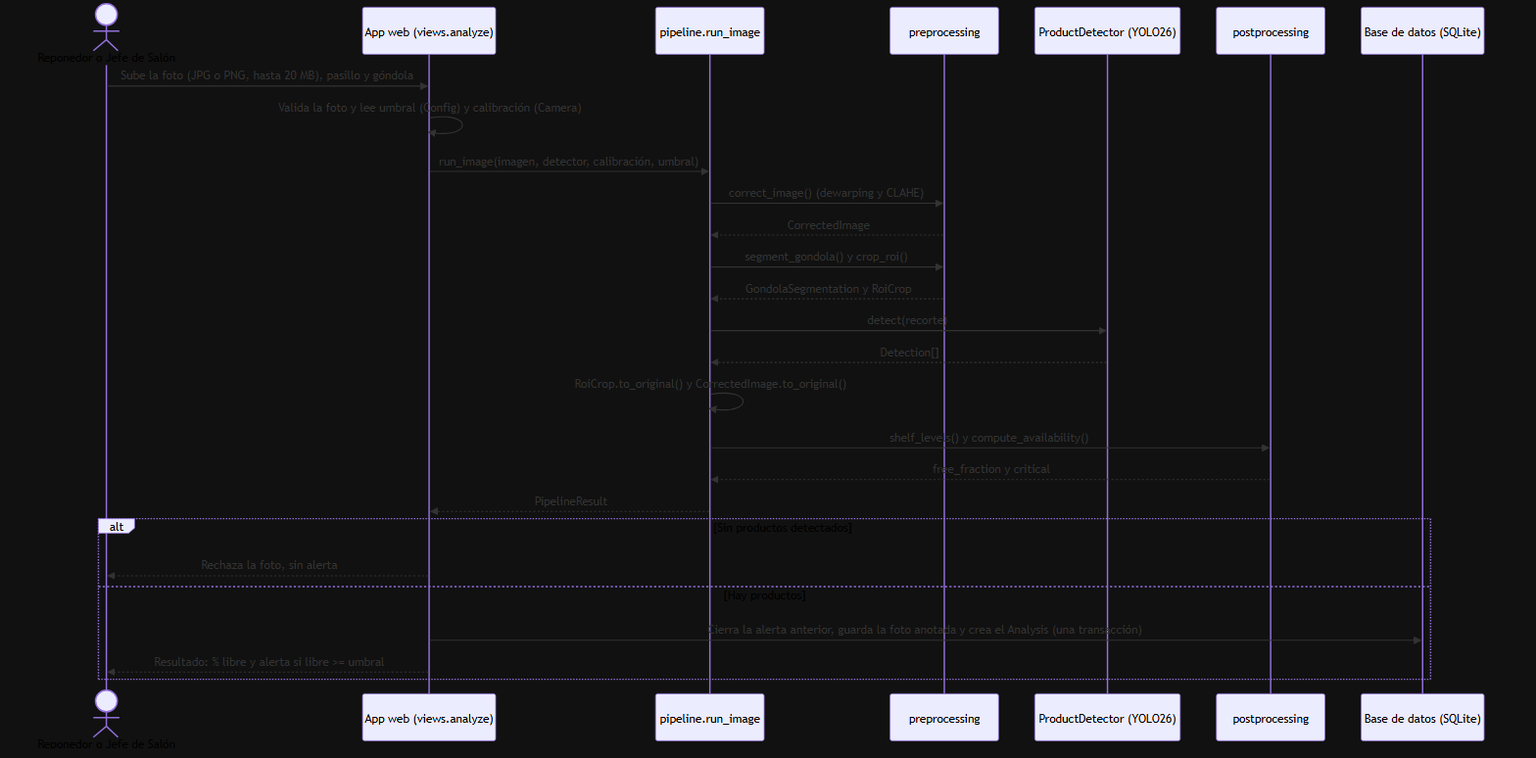
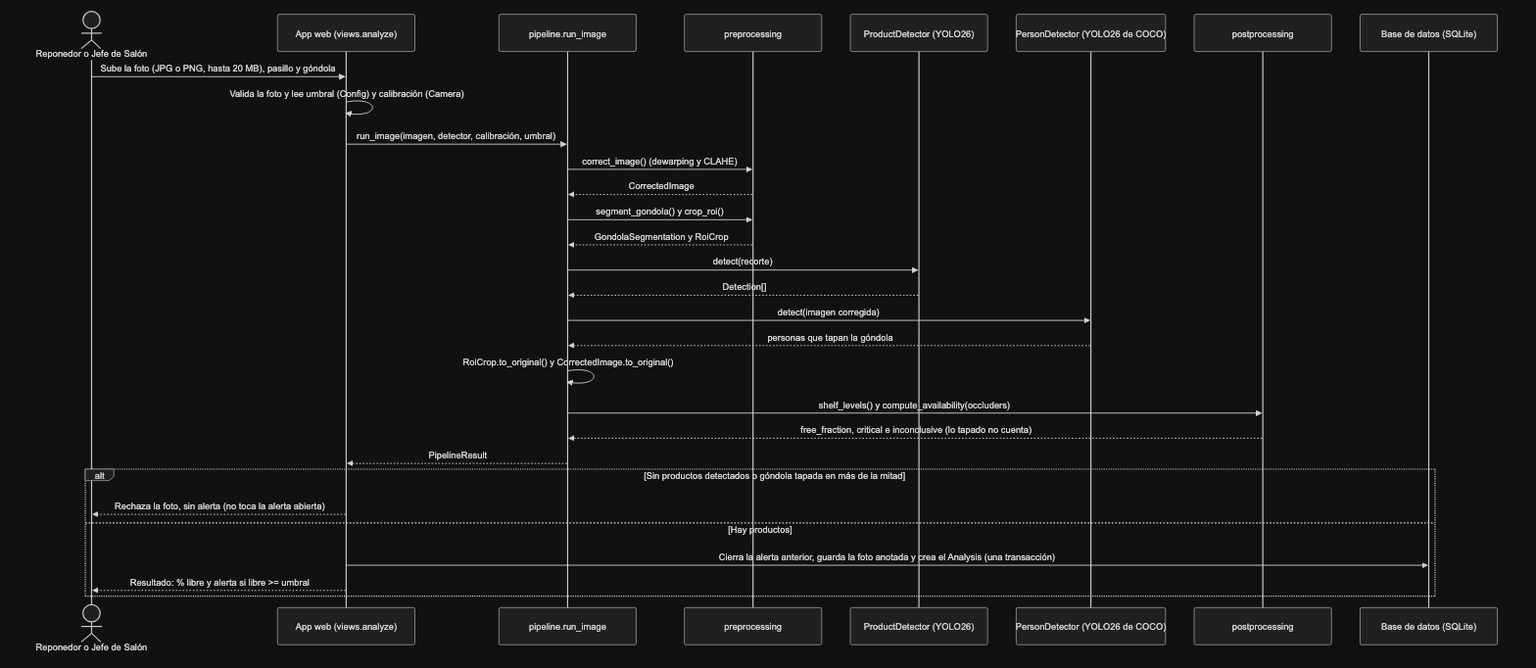
docs: revisa documentos, backlog y diagramas contra el repositorio (#90)
PROGRESS.md, el Product Backlog, el Sprint Backlog y la Carta Gantt
coinciden y no hay enlaces rotos. Se corrige lo que quedó desactualizado
tras #77, #80 y #84: requisitos no funcionales (RNF08 pasa a Cumple por
la instalación probada del #60), innovación y Definition of Done (303
pruebas), estado operativo del README, PRODUCT.md y la auditoría (CITT
descartado), la especificación técnica (oclusión del #77) y los
diagramas UML de clases, secuencia y componentes (detector de personas
y pesos dentro de la imagen; PNG regenerados con el tema oscuro).
Quedan anotados para un ítem aparte los errores de Lista de C. U. y
Lista de Requerimientos.

diff --git a/Fase 2/Evidencias Proyecto/Evidencias de documentación/Diseño/Requisitos No Funcionales.md b/Fase 2/Evidencias Proyecto/Evidencias de documentación/Diseño/Requisitos No Funcionales.md
@@ -1,16 +1,16 @@
 # Requisitos no funcionales
 
-Los seis requisitos RNF01 a RNF06 son los de [Lista de Requerimientos.xlsx](Lista%20de%20Requerimientos.xlsx) (Fase 1). Aquí se les agrega un **criterio medible**, **cómo se verifica** y su **estado al 2026-11-15**. Los RNF07 a RNF10 se agregaron en la Fase 2 por decisiones técnicas y del cliente. Detalle de pruebas: [docs/test-plan.md](../../../../docs/test-plan.md).
+Los seis requisitos RNF01 a RNF06 son los de [Lista de Requerimientos.xlsx](Lista%20de%20Requerimientos.xlsx) (Fase 1). Aquí se les agrega un **criterio medible**, **cómo se verifica** y su **estado al 2026-11-16**. Los RNF07 a RNF10 se agregaron en la Fase 2 por decisiones técnicas y del cliente. Detalle de pruebas: [docs/test-plan.md](../../../../docs/test-plan.md).
 
 | ID | Categoría | Criterio medible | Cómo se verifica | Estado |
 | --- | --- | --- | --- | --- |
 | RNF01 | Rendimiento / latencia | Análisis de una foto en 2 a 5 s (RF01) | Tiempo por etapa de `scripts/run_pipeline.py` (`times` en el JSON) | **Cumple en CPU**: mediana 0,51 s por foto (45 fotos de Kaggle de 5616 x 3744, i5-13400F, 4 hilos, 2026-10-20). El tope de 1,5 a 2,0 GB de VRAM no se midió; falta el hardware final |
-| RNF02 | Robustez y ruido visual | El detector mantiene mAP50 >= 0,70 en fotos fuera de SKU-110K, en vistas giradas y con ruido de cámara de sala | DET-06 a DET-10 de `docs/test-plan.md`; ítems #55, #76, #78 y #79 | **Parcial**: mAP50 0,854 de frente y 0,818 en la vista girada y35 (`yolo26s-finetune`, DET-07); con ruido simulado de cámara de sala, 0,780 a 0,801 (DET-08 y DET-10). Por tipo de ruido (DET-09 y DET-10) cumple en todos salvo el desenfoque de movimiento fuerte (31 px): 0,577 con `yolo26s-finetune` y 0,647 con `yolo26s-finetune-ruido-v3`. Pendientes: las puertas de vidrio (#46) y la falsa alerta cuando una persona tapa la góndola (#77) |
+| RNF02 | Robustez y ruido visual | El detector mantiene mAP50 >= 0,70 en fotos fuera de SKU-110K, en vistas giradas y con ruido de cámara de sala | DET-06 a DET-10 de `docs/test-plan.md`; ítems #55, #76, #78 y #79 | **Parcial**: mAP50 0,854 de frente y 0,818 en la vista girada y35 (`yolo26s-finetune`, DET-07); con ruido simulado de cámara de sala, 0,780 a 0,801 (DET-08 y DET-10). Por tipo de ruido (DET-09 y DET-10) cumple en todos salvo el desenfoque de movimiento fuerte (31 px): 0,577 con `yolo26s-finetune` y 0,647 con `yolo26s-finetune-ruido-v3`. El desenfoque de 31 px se acepta como límite: reentrenar con más desenfoque no mejoró (0,652, DET-11, #82). La falsa alerta cuando una persona tapa la góndola se resolvió en el pipeline (#77: mide solo el frente visible). Pendiente: las puertas de vidrio (#46) |
 | RNF03 | Arquitectura modular | Etapas `preprocessing -> models -> postprocessing -> reporting` en paquetes `.py` separados, sin importar detalles internos de otra etapa | Revisión de código y [Diagrama de Arquitectura](Diagrama%20de%20arquitectura/Diagrama%20de%20Arquitectura.png); `tests/` por etapa | **Cumple** (sin notebooks en `src/`) |
 | RNF04 | Seguridad de autenticación | Contraseñas con bcrypt; sesión que expira por inactividad; bloqueo temporal tras intentos fallidos | `web/settings.py` (`BCryptSHA256PasswordHasher`, sesión de 2 horas que se renueva con cada petición), bloqueo de 15 minutos (#51) y sus pruebas en `tests/` | **Cumple**. Se usa sesión de Django, no JWT (decisión de la app web, README) |
-| RNF05 | Privacidad y seguridad | El sistema no guarda rostros ni datos personales de clientes; las fotos se borran pasado un plazo | `manage.py borrar_fotos --dias 30` (borra la foto y conserva el resultado, #45) | **Cumple** como mecanismo; falta programar su ejecución periódica en el servidor |
+| RNF05 | Privacidad y seguridad | El sistema no guarda rostros ni datos personales de clientes; las fotos se borran pasado un plazo | `manage.py borrar_fotos --dias 30` (borra la foto y conserva el resultado, #45) | **Cumple** como mecanismo; su ejecución diaria se programa al instalar (cron o Programador de tareas, sección 8.4 del Instructivo del plan de instalación) |
 | RNF06 | Disponibilidad y usabilidad web | Navegación en menos de 2 s; Chrome, Edge, Firefox y Safari; uso en celular | Revisión manual con los mockups y el [diseño](../../../../DESIGN.md); sin medición automática | **Parcial**: sin medición de tiempos de respuesta |
 | RNF07 | Seguridad de la aplicación | Debug apagado por defecto, HTTPS exigido, contenedor sin privilegios de root, dependencias sin vulnerabilidades conocidas | [docs/auditoria-seguridad.md](../../../../docs/auditoria-seguridad.md); `Dockerfile` (usuario 10001); `requirements.txt` (Pillow 13, certifi) | **Cumple** al 2026-10-22 (#50, #57); `pip-audit` en el CI pendiente |
-| RNF08 | Reproducibilidad y despliegue | Instalación con `docker compose up` o `docker run`; pruebas sin datos, pesos ni GPU | `Dockerfile`, `docker-compose.yml`, job `docker` del CI; `pytest tests/` (276 pruebas) | **Parcial**: `docker-compose.yml` validado con `docker compose config`, pero `up` sin probar (Docker Desktop no arranca en el PC de desarrollo); la instalación en el servidor del CITT (#39) se descartó el 2026-11-15 |
-| RNF09 | Licencias de datos | SKU-110K solo para entrenar y evaluar, nunca para generar imágenes ni demos ante terceros | `docs/datasets.md`, `src/datasets/sources.py` | **Cumple**; el modelo versionado (`weights/yolo26s-finetune.pt`) hereda la restricción de uso académico |
+| RNF08 | Reproducibilidad y despliegue | Instalación con `docker compose up` o `docker run`; pruebas sin datos, pesos ni GPU | `Dockerfile`, `docker-compose.yml`, job `docker` del CI; `pytest tests/` (303 pruebas); Instructivo del plan de instalación | **Cumple**: `docker compose up --build` probado completo el 2026-11-15 siguiendo el Instructivo (#60): imagen de 2,6 GB con los pesos incluidos, análisis, reportes y datos que se conservan al reiniciar. La instalación en el servidor del CITT (#39) se descartó el 2026-11-15 |
+| RNF09 | Licencias de datos | SKU-110K solo para entrenar y evaluar, nunca para generar imágenes ni demos ante terceros | `docs/datasets.md`, `src/datasets/sources.py` | **Cumple**; el modelo versionado (`weights/yolo26s-finetune-ruido-v3.pt`) hereda la restricción de uso académico. El de personas (`weights/yolo26n.pt`) es de Ultralytics, con licencia AGPL-3.0 |
 | RNF10 | Profundidad constante | Toda góndola se asume de 25 cm de profundidad; sin estimación de profundidad | `README.md`; `compute_availability` | **Cumple** |

diff --git a/README.md b/README.md
@@ -197,24 +197,28 @@ La especificación técnica (qué recibe y entrega cada etapa, parámetros con s
 
 ## 🚦 Estado Operativo y Pendiente
 
-Al 2026-10-20. El detalle por ítem y su dueño están en [PROGRESS.md](PROGRESS.md).
+Al 2026-11-16. El detalle por ítem y su dueño están en [PROGRESS.md](PROGRESS.md).
 
 | Módulo o requisito | Estado |
 | :--- | :--- |
 | Corrección de imagen (dewarping y CLAHE) | Operativo. El dewarping necesita calibración de lente: sin ella solo se aplica CLAHE |
 | Segmentación automática de góndola y repisas | Operativo. F1 de repisas 0,82 en SHARD; limitaciones conocidas en el ítem #17 |
-| Detector YOLO26 (`yolo26s`) | Operativo. mAP50-95 0,610 en el *test* de SKU-110K; 0,423 en las 45 fotos de Kaggle |
+| Detector YOLO26 (`yolo26s`) | Operativo con el modelo versionado `yolo26s-finetune-ruido-v3` (ajustado con fotos de Kaggle, vistas giradas y ruido de cámara de sala): mAP50 0,844 en las 12 fotos de prueba de Kaggle y 0,935 en el *test* de SKU-110K (DET-10). El modelo base: mAP50-95 0,610 en SKU-110K y 0,423 en las 45 fotos de Kaggle |
+| Persona que tapa la góndola (#77) | Operativo: mide solo el frente visible y rechaza la foto si más de la mitad queda tapada, sin falsa alerta |
 | Disponibilidad y alerta por góndola completa (RF02, RF03, RF04) | Operativo |
 | Ingesta y evaluación por lotes (RF01, RF06, CU07) | Operativo (`scripts/run_pipeline.py`); ~0,5 s por foto en lote, en CPU |
-| Aplicación web: login (CU00), usuarios y roles (CU06), análisis (CU01) y alertas (CU02) | Operativo |
+| Aplicación web: login (CU00), usuarios y roles (CU06), análisis (CU01) y alertas (CU02) | Operativo. CU06 sin correo: el Administrador ve el enlace para definir la contraseña y se lo entrega (#84) |
 | Reportes Excel, CSV y PDF (RF05, CU04, #7) | Operativo: página "Reportes" de la app web (`src/reporting/export.py`) |
 | Configuración de umbral y cámaras (CU05, #44) | Operativo: página "Configuración" de la app web |
 | Dashboard de disponibilidad (CU03, #43) | Operativo: página "Góndolas" de la app web |
+| Instalación con Docker Compose (#60, #74) | Operativa: probada completa el 2026-11-15 siguiendo el Instructivo del plan de instalación |
 | Instalación en el servidor del CITT (#39) | Descartada el 2026-11-15: ya no se necesita |
 
 **Limitaciones conocidas** (análisis completo en [docs/analisis-resultados.md](docs/analisis-resultados.md)):
 
-* El detector pierde productos fuera de su dominio (recall 0,644 en Kaggle contra 0,885 en SKU-110K), y cada producto perdido cuenta como hueco: produce falsas alertas (6 de 44 fotos). Siguiente paso: *fine-tuning* con fotos fuera de SKU-110K (#33, #32).
+* El detector base perdía productos fuera de su dominio (recall 0,644 en Kaggle contra 0,885 en SKU-110K), y cada producto perdido cuenta como hueco: producía falsas alertas (6 de 44 fotos). El *fine-tuning* con fotos de Kaggle lo mejoró (#33, #59, #80), pero se midió con solo 12 fotos de prueba: faltan fotos propias de tienda (#32).
+* Con desenfoque de movimiento fuerte (31 px) el detector baja a mAP50 0,647, bajo la meta de 0,70; reentrenar con más desenfoque no lo mejoró y se acepta como límite (DET-11, #82).
+* La oclusión solo se detecta cuando es una persona: un carro o una caja delante de la góndola todavía se mide como espacio libre (#77).
 * Las frutas y verduras a granel quedan fuera del alcance (no perecibles): recall 0,16.
 * Refrigeradores con puerta de vidrio: reflejos, desenfoque y marcos dan falsas alertas (#46).
 * La bodega de reserva sobre la góndola todavía se mide como parte de ella (#31).
@@ -461,14 +465,14 @@ python manage.py runserver          # http://localhost:8000
   analizadas con más de 30 días y conserva sus resultados (% libre,
   alerta, estado e historial), así que el dashboard y los reportes siguen
   igual; el detalle muestra "La foto se borró". Pensado para correr una
-  vez al día (cron o el programador del servidor del CITT). El plazo de 30
+  vez al día (cron o el Programador de tareas del servidor). El plazo de 30
   días es una propuesta a confirmar con Walmart (#24).
 - **Diseño**: el mundo visual es el "fleje de góndola": cada góndola se
   dibuja como sus repisas de frente, con los huecos rayados en su posición
   real (contexto de producto en [PRODUCT.md](PRODUCT.md) y sistema en
   [DESIGN.md](DESIGN.md)). Estilos, fuente (Archivo, OFL) e íconos
   (Phosphor, MIT) se sirven desde la app con whitenoise, sin CDN: la red
-  de la tienda o el servidor del CITT pueden no tener internet.
+  de la tienda o el servidor pueden no tener internet.
 
 Variables de entorno (todas opcionales en desarrollo):
 `SHELFVISION_WEIGHTS` (pesos de YOLO26; por defecto los de

diff --git a/docs/especificacion-tecnica.md b/docs/especificacion-tecnica.md
@@ -71,12 +71,18 @@ Una sola clase: `product`. Pesos en uso: `yolo26s-finetune-ruido-v3`, el
 fine-tuning con ruido de cámara de sala del 2026-11-15 (#79 de
 `PROGRESS.md`, DET-10), versionado en `weights/`.
 
+`PersonDetector(weights, device=None)` (`src/models/people.py`, #77) tiene
+la misma interfaz `detect()`: busca personas que tapan la góndola con
+`weights/yolo26n.pt` (YOLO26 de COCO, sin entrenar) y descarta las cajas
+bajas o más anchas que altas, porque las caras impresas en los envases
+salen como «persona».
+
 ### 3.3 Post-procesamiento (`src/postprocessing/`)
 
 | Función | Entrada | Salida |
 | --- | --- | --- |
 | `shelf_levels(products, segmentation_lines, roi, params=ShelfLevelParams())` | Cajas en la imagen corregida, rectas de la segmentación (`astuple(l)`) y la ROI | Niveles de arriba hacia abajo como cuadriláteros de lados verticales (sup. izq., sup. der., inf. der., inf. izq.). Sin repisas, la ROI es el único nivel |
-| `compute_availability(products, levels, params=AvailabilityParams())` | Cajas y niveles | `GondolaAvailability(shelves, free_fraction, critical)` |
+| `compute_availability(products, levels, params=AvailabilityParams(), occluders=())` | Cajas, niveles y lo que tapa la góndola | `GondolaAvailability(shelves, free_fraction, critical, occluded_fraction, inconclusive)` |
 
 - **`ShelfAvailability`** (una por nivel medido): `level_index`, `bbox`,
   `product_count`, `gaps` (tramos libres `(x_inicio, x_fin)`) y `polygon`.
@@ -86,6 +92,10 @@ fine-tuning con ruido de cámara de sala del 2026-11-15 (#79 de
   último nivel con productos y del producto más a la izquierda al más a la
   derecha. `free_fraction` es el ancho libre sobre el ancho total de todas
   las repisas, y `critical` es `free_fraction >= critical_free_fraction`.
+- **Oclusión (#77)**: lo que tapa una persona no cuenta como libre ni
+  como ocupado; se mide solo el frente visible. Si más del 50% queda
+  tapado (`max_occluded_fraction`), `inconclusive` es verdadero y no hay
+  alerta.
 - **Solo se informa la góndola completa**: el % libre y la alerta por
   repisa no son salida (#40).
 
@@ -93,7 +103,7 @@ fine-tuning con ruido de cámara de sala del 2026-11-15 (#79 de
 
 | Función | Entrada | Salida |
 | --- | --- | --- |
-| `run_image(image, detector, calibration=None, conf=None, critical_free_fraction=None)` | Foto BGR y un objeto con `detect()` | `PipelineResult` en coordenadas de la foto original |
+| `run_image(image, detector, calibration=None, conf=None, critical_free_fraction=None, occluder_detector=None)` | Foto BGR, un objeto con `detect()` y, opcional, el detector de personas | `PipelineResult` en coordenadas de la foto original |
 | `measure_boxes(image, boxes)` | Foto y cajas dadas (por ejemplo, una anotación hecha a mano) | `PipelineResult` medido con esas cajas, sin detector (referencia de CU07) |
 
 ### 3.5 Reportes (`src/reporting/`)
@@ -143,6 +153,9 @@ documentados campo por campo en su código.
 | `free_fraction` | float, 0 a 1 | Espacio libre de la góndola completa |
 | `critical` | bool | Alerta de quiebre de la góndola completa |
 | `segmentation_found` | bool | Falso si no se encontraron repisas (análisis global) |
+| `occluders` | `BBox[]` | Personas que tapan la góndola, en la foto original (#77) |
+| `occluded_fraction` | float, 0 a 1 | Parte del frente tapada |
+| `inconclusive` | bool | Verdadero si más de la mitad quedó tapada: no se informa alerta |
 | `times` | objeto | Segundos por etapa: `correction`, `segmentation`, `detection`, `availability` y `total` |
 
 Ejemplo (foto 026 de Kaggle, CPU): 94 productos, 6 repisas,
@@ -191,7 +204,9 @@ El modelo lógico, el modelo relacional y el diccionario de datos de la base
   (`BCryptSHA256PasswordHasher`).
 - **Análisis (CU01)**: foto JPG o PNG de hasta 20 MB y 50 megapíxeles, con pasillo y
   góndola. Se usan el umbral configurado y la calibración de la cámara de
-  esa góndola, si existe. Una foto sin productos detectados se rechaza.
+  esa góndola, si existe. Una foto sin productos detectados, o con más de
+  la mitad de la góndola tapada por una persona (#77), se rechaza sin
+  tocar la alerta abierta.
   El pasillo y la góndola se guardan sin espacios y en mayúsculas.
 - **Alertas (CU02)**: una góndola tiene a lo más una alerta abierta. Una
   foto nueva con quiebre reemplaza a la anterior y conserva su estado; una

diff --git a/Fase 2/Evidencias Proyecto/Evidencias de documentación/Diseño/Diagramas UML.md b/Fase 2/Evidencias Proyecto/Evidencias de documentación/Diseño/Diagramas UML.md
@@ -1,6 +1,6 @@
 # Diagramas UML
 
-Diagramas de **clases**, **secuencia** y **componentes** del sistema, hechos desde el código real (`src/`, `web/`) al 2026-11-14. Están en Mermaid: GitHub los dibuja en esta misma página. Imágenes (con su fuente en `Diagramas fuente (Mermaid)/`): [clases](Diagrama%20de%20Clases.png), [secuencia](Diagrama%20de%20Secuencia%20-%20Analisis%20de%20una%20foto.png) y [componentes](Diagrama%20de%20Componentes.png). Se generan con el comando de `Diagramas fuente (Mermaid)/LEEME.md`. Los diagramas de casos de uso están en [Diagrama General Casos de Uso.png](Diagrama%20General%20Casos%20de%20Uso.png) y en `Diagramas particulares por cada C. U._/`; la arquitectura, en [Diagrama de Arquitectura.png](Diagrama%20de%20arquitectura/Diagrama%20de%20Arquitectura.png).
+Diagramas de **clases**, **secuencia** y **componentes** del sistema, hechos desde el código real (`src/`, `web/`) al 2026-11-16. Están en Mermaid: GitHub los dibuja en esta misma página. Imágenes (con su fuente en `Diagramas fuente (Mermaid)/`): [clases](Diagrama%20de%20Clases.png), [secuencia](Diagrama%20de%20Secuencia%20-%20Analisis%20de%20una%20foto.png) y [componentes](Diagrama%20de%20Componentes.png). Se generan con el comando de `Diagramas fuente (Mermaid)/LEEME.md`. Los diagramas de casos de uso están en [Diagrama General Casos de Uso.png](Diagrama%20General%20Casos%20de%20Uso.png) y en `Diagramas particulares por cada C. U._/`; la arquitectura, en [Diagrama de Arquitectura.png](Diagrama%20de%20arquitectura/Diagrama%20de%20Arquitectura.png).
 
 ## 1. Diagrama de clases
 
@@ -39,6 +39,8 @@ classDiagram
         +ShelfAvailability[] shelves
         +float free_fraction
         +bool critical
+        +float occluded_fraction
+        +bool inconclusive
     }
     class PipelineResult {
         +tuple image_size
@@ -48,6 +50,8 @@ classDiagram
         +float free_fraction
         +bool critical
         +bool segmentation_found
+        +float occluded_fraction
+        +bool inconclusive
         +StageTimes times
         +to_dict() dict
     }
@@ -102,6 +106,7 @@ sequenceDiagram
     participant P as pipeline.run_image
     participant C as preprocessing
     participant D as ProductDetector (YOLO26)
+    participant O as PersonDetector (YOLO26 de COCO)
     participant A as postprocessing
     participant DB as Base de datos (SQLite)
 
@@ -114,12 +119,14 @@ sequenceDiagram
     C-->>P: GondolaSegmentation y RoiCrop
     P->>D: detect(recorte)
     D-->>P: Detection[]
+    P->>O: detect(imagen corregida)
+    O-->>P: personas que tapan la góndola
     P->>P: RoiCrop.to_original() y CorrectedImage.to_original()
-    P->>A: shelf_levels() y compute_availability()
-    A-->>P: free_fraction y critical
+    P->>A: shelf_levels() y compute_availability(occluders)
+    A-->>P: free_fraction, critical e inconclusive (lo tapado no cuenta)
     P-->>W: PipelineResult
-    alt Sin productos detectados
-        W-->>U: Rechaza la foto, sin alerta
+    alt Sin productos detectados o góndola tapada en más de la mitad
+        W-->>U: Rechaza la foto, sin alerta (no toca la alerta abierta)
     else Hay productos
         W->>DB: Cierra la alerta anterior, guarda la foto anotada y crea el Analysis (una transacción)
         W-->>U: Resultado: % libre y alerta si libre >= umbral
@@ -141,12 +148,13 @@ flowchart LR
         end
         subgraph PIPE["src/ (pipeline)"]
             PRE["preprocessing/ (OpenCV)"]
-            MDL["models/ (YOLO26 Ultralytics)"]
+            MDL["models/ (YOLO26 Ultralytics: productos y personas)"]
             POST["postprocessing/ (disponibilidad y alerta)"]
             REP["reporting/ (vista anotada, Excel, CSV y PDF)"]
             RUN[pipeline.py: run_image]
         end
-        VOL[("Volumen /data: SQLite, fotos y best.pt")]
+        W[("weights/: yolo26s-finetune-ruido-v3.pt y yolo26n.pt (en la imagen)")]
+        VOL[("Volumen /data: SQLite y fotos")]
     end
 
     NAV -->|HTTPS| VIS
@@ -154,7 +162,7 @@ flowchart LR
     VIS -->|run_image| RUN
     RUN --> PRE --> MDL --> POST --> REP
     MOD --> VOL
-    MDL -->|pesos| VOL
+    MDL -->|pesos| W
     VIS -->|reportes| REP
 
     CI[GitHub Actions: pytest y docker build] -.->|valida| Docker

diff --git a/Fase 2/Evidencias Proyecto/Evidencias de documentación/Gestion/Product Backlog.md b/Fase 2/Evidencias Proyecto/Evidencias de documentación/Gestion/Product Backlog.md
@@ -1,6 +1,6 @@
 # Product Backlog
 
-Lista priorizada de todo el trabajo del proyecto ShelfVision AI. La fuente viva es [PROGRESS.md](../../../../PROGRESS.md) (sección "Pendientes (priorizados)", ítems con número fijo **#N**, dueño y estado); esta tabla es una copia de su estado al **2026-11-16** (89 ítems: 72 hechos, 6 en curso, 9 pendientes y 2 descartados) para que se pueda leer sin abrir el archivo. Cada ítem se toma agregando `(dueño: nombre)`, se trabaja en una rama (`feat/`, `fix/`, `docs/`...) y se cierra con un Pull Request (ver [Definition of Done](Definition%20of%20Done.md)).
+Lista priorizada de todo el trabajo del proyecto ShelfVision AI. La fuente viva es [PROGRESS.md](../../../../PROGRESS.md) (sección "Pendientes (priorizados)", ítems con número fijo **#N**, dueño y estado); esta tabla es una copia de su estado al **2026-11-16** (90 ítems: 73 hechos, 6 en curso, 9 pendientes y 2 descartados) para que se pueda leer sin abrir el archivo. Cada ítem se toma agregando `(dueño: nombre)`, se trabaja en una rama (`feat/`, `fix/`, `docs/`...) y se cierra con un Pull Request (ver [Definition of Done](Definition%20of%20Done.md)).
 
 Prioridad: el orden de "Pendientes" en `PROGRESS.md` (primero lo que bloquea un hito del profesor o de Walmart). Los requisitos de origen están en [Lista de Requerimientos.xlsx](../Diseño/Lista%20de%20Requerimientos.xlsx) y [Lista de C. U..xlsx](../Diseño/Lista%20de%20C.%20U..xlsx).
 
@@ -95,3 +95,4 @@ Prioridad: el orden de "Pendientes" en `PROGRESS.md` (primero lo que bloquea un 
 | #87 | En curso | Mariana | Cámara defectuosa (excepción 1a de CU01, lo único que le falta al CU01): si la foto tiene colores imposibles (por ejemplo, toda verde o viol… |
 | #88 | En curso | Mariana | Alcance de CU02 y CU05 en las plantillas, para cerrar los C.U al 100% en la entrega final (2026-11-20): la notificación push al teléfono (CU… |
 | #89 | Pendiente | Sin asignar | Archivo txt «Repositorio GitHub del proyecto documentado» en `Fase 2/Evidencias Proyecto/Evidencias de sistema/Aplicación/`, que pide la ent… |
+| #90 | Hecho | Mariana | Revisión general de documentos, backlog y diagramas contra el repositorio (pedido de Mariana, 2026-11-16). **Hecho (2026-11-16)**: `PROGRESS… |

diff --git a/docs/auditoria-app-web.md b/docs/auditoria-app-web.md
@@ -39,11 +39,11 @@ Evaluación 2 y del demo con Walmart (semana del 2026-10-28, a más tardar
 | 12 | Dashboard de disponibilidad por góndola (verde, amarillo, rojo, sin datos) e historial | CU03, RF05 | P1 | Ítem #43 |
 | 13 | Exportar reportes Excel, CSV y PDF | CU04, RF06 | P1 | Ítem #7 |
 | 14 | Umbral configurable y cámaras asociadas a góndolas | CU05, RF07 | P1 | Ítem #44 |
-| 15 | Los pesos `yolo26s` no están en el servidor; sin ellos la app analiza con lo que encuentre | RF02 | P1 | Copiarlos al volumen `/data` del CITT (#39) |
+| 15 | Los pesos `yolo26s` no están en el servidor; sin ellos la app analiza con lo que encuentre | RF02 | P1 | Resuelto: los pesos versionados vienen dentro de la imagen Docker (#80); el CITT (#39) se descartó |
 | 16 | Los correos (enlace para definir la contraseña) solo se imprimen en la consola | CU06 | P1 | Cerrado por decisión (#84, 2026-11-16): no se usa correo; el Administrador ve el enlace en pantalla y se lo entrega |
 | 17 | Las fotos guardadas pueden mostrar clientes: RNF05 pide no guardar rostros ni datos personales | RNF05 | P1 | Ítem #45: `borrar_fotos` las borra tras 30 días (2026-10-22); el plazo y si además se difuminan rostros, a conversar con Walmart (#24) |
-| 18 | HTTPS en el CITT: sin él la cookie de sesión viaja en claro | RNF04 | P1 | Cookies seguras detrás de HTTPS (#39) |
-| 19 | Notificación push al reponedor y alerta de cámara defectuosa | CU02, CU01 1a | P2 | Backlog |
+| 18 | HTTPS en el CITT: sin él la cookie de sesión viaja en claro | RNF04 | P1 | Cookies seguras detrás de HTTPS: proxy con certificado de la empresa (sección 5.3 del Instructivo del plan de instalación); el CITT (#39) se descartó |
+| 19 | Notificación push al reponedor y alerta de cámara defectuosa | CU02, CU01 1a | P2 | Cámara defectuosa: #87; push fuera de alcance como mejora futura: #88 |
 | 20 | Registro de auditoría (quién hizo qué), como en el mockup Admin-4 | Mockups | P2 | Backlog |
 | 21 | Bandeja de usuarios con búsqueda y "último acceso", como en el mockup Admin-3 | Mockups | P2 | El último acceso ya existe (`last_login`); se muestra en la lista |
 

diff --git a/PROGRESS.md b/PROGRESS.md
@@ -284,6 +284,26 @@ semana 8, y los demás hasta el #39, al del 2026-10-16.
       en `Fase 2/Evidencias Proyecto/Evidencias de sistema/Aplicación/`,
       que pide la entrega final (2026-11-20): enlace al repositorio y
       cómo está organizado.
+- [x] **#90** (dueño: Mariana) Revisión general de documentos, backlog y
+      diagramas contra el repositorio (pedido de Mariana, 2026-11-16).
+      **Hecho (2026-11-16)**: `PROGRESS.md`, el Product Backlog, el Sprint
+      Backlog y la Carta Gantt coinciden (89 ítems más este); no hay enlaces
+      rotos en los `.md`. Se corrigió lo desactualizado tras #77, #80 y #84:
+      requisitos no funcionales (RNF02, RNF05, RNF08 ahora **Cumple** por la
+      instalación probada del #60, RNF09 con los pesos v3 y `yolo26n`),
+      innovación y Definition of Done (303 pruebas), README (estado operativo
+      al 2026-11-16 y limitaciones), `PRODUCT.md` y la auditoría de la app
+      (CITT descartado), la especificación técnica (oclusión del #77 y campos
+      del JSON) y los diagramas UML de clases, secuencia y componentes (detector
+      de personas y pesos dentro de la imagen; PNG regenerados con el tema
+      oscuro, más legibles). Quedan para decidir (Mariana, dueña de los C.U):
+      `Lista de C. U..xlsx` no tiene el CU07 y su CU02 dice «disponibilidad
+      bajo 30%» (la regla es espacio libre >= 30% de la góndola completa), y
+      `Lista de Requerimientos.xlsx` (copia de la Fase 1) tiene RF04 y RF07
+      con la misma regla vieja, RF01 con «2 a 5 s por imagen» como intervalo
+      de captura y RNF04 con JWT. Sin fila en la Carta Gantt (quedan fuera,
+      por ser mejoras sin fecha o ya cerradas): #14, #17, #18, #20, #21, #24,
+      #31, #32, #41, #46, #47 y #56.
 - [x] **#85** (dueño: Nicko) Rendimiento de la app web (auditoría ponytail
       del repo, 2026-11-15). (1) El dashboard «Góndolas» (CU03) buscaba la
       última foto de cada góndola con una subconsulta sin índice, y crecía

diff --git a/Fase 2/Evidencias Proyecto/Evidencias de documentación/Diseño/Documento de Innovacion.md b/Fase 2/Evidencias Proyecto/Evidencias de documentación/Diseño/Documento de Innovacion.md
@@ -19,7 +19,7 @@ Quedan fuera del documento comparaciones con la operación real de Walmart (frec
 | **Huecos medidos como cobertura a lo largo de la repisa** | Un hueco cuenta solo si cabe al menos un ancho de producto (no se puede reponer menos); el espacio vertical sobre un producto no cuenta (respuesta a "la trampa del apilamiento") | README, "Fachada visible, sin apilamiento" |
 | **Una alerta por góndola completa** | El % y la alerta que se informan son de la góndola entera; las repisas son solo el método interno de medición | README, cambio de alcance del 2026-10-19 |
 | **Fine-tuning fuera de dominio con datos que se pueden modificar** | El detector entrenado con SKU-110K se ajustó con fotos de Kaggle (CC0) y vistas giradas, cumpliendo la licencia de SKU-110K | `docs/datasets.md`, DET-07 |
-| **Reproducible y explicable** | Docker y Docker Compose, 276 pruebas sin datos, pesos ni GPU, etapas desacopladas; Walmart prefiere un modelo que el equipo pueda explicar | README, [Requisitos no funcionales](Requisitos%20No%20Funcionales.md) |
+| **Reproducible y explicable** | Docker y Docker Compose, 303 pruebas sin datos, pesos ni GPU, etapas desacopladas; Walmart prefiere un modelo que el equipo pueda explicar | README, [Requisitos no funcionales](Requisitos%20No%20Funcionales.md) |
 
 ## Resultados medidos que respaldan el aporte
 

diff --git a/Fase 2/Evidencias Proyecto/Evidencias de documentación/Gestion/Definition of Done.md b/Fase 2/Evidencias Proyecto/Evidencias de documentación/Gestion/Definition of Done.md
@@ -3,7 +3,7 @@
 Un ítem del backlog está **terminado** solo si cumple todo lo siguiente. Son las reglas de trabajo en equipo del repositorio (`CLAUDE.md`, "Trabajo en equipo") y se verifican en cada Pull Request.
 
 1. **Rama propia** por ítem (`feat/`, `fix/`, `docs/`, `build/` o `chore/`); nunca commits directos a `main`.
-2. **Pruebas:** `pytest tests/` pasa completo antes de cada commit (276 pruebas al 2026-11-15). En código nuevo, la prueba se escribe primero (TDD).
+2. **Pruebas:** `pytest tests/` pasa completo antes de cada commit (303 pruebas al 2026-11-16). En código nuevo, la prueba se escribe primero (TDD).
 3. **Docker:** si se tocó `Dockerfile`, `docker-compose.yml` o `requirements.txt`, también `docker build`.
 4. **Pull Request a `main`** en español, con qué cambia y cómo se verificó; el **CI de GitHub Actions** (pruebas y `docker build`) debe quedar en verde.
 5. **Convenciones del código:** solo scripts `.py`, bounding boxes `[x_min, y_min, x_max, y_max]` en píxeles absolutos, preprocesamiento (OpenCV) antes del modelo (YOLO26), etapas del pipeline sin importar detalles internos de otras.

diff --git a/Fase 2/Evidencias Proyecto/Evidencias de documentación/Gestion/Sprint Backlog.md b/Fase 2/Evidencias Proyecto/Evidencias de documentación/Gestion/Sprint Backlog.md
@@ -51,6 +51,7 @@ Objetivo: GitHub al día para la revisión de Walmart (2026-11-16), entrega del 
 | #87 | Cámara defectuosa (excepción 1a de CU01) | Mariana | Pendiente |
 | #88 | Alcance de CU02 (push) y CU05 (tolerancia) en las plantillas | Mariana | Pendiente |
 | #89 | txt del repositorio GitHub documentado | Sin asignar | Pendiente |
+| #90 | Revisión general de documentos, backlog y diagramas contra el repositorio | Mariana | Hecho |
 | #70 a #75 | Hallazgos de la auditoría N.º 4 (README, metodología, RNF, UML, docker-compose, innovación) | Francisco | Hecho (PR #88) |
 | #69 | Evidencias individuales que faltan (autoevaluación 1.3 y diario 2.1 de Francisco) y presentación | Francisco | En curso: borradores en el PR #89; la presentación llega con #65 |
 | #81 | Revisión de los documentos de la auditoría N.º 4 contra el repositorio | Mariana | Hecho |

diff --git a/Fase 2/Evidencias Proyecto/Evidencias de documentación/Diseño/Diagramas fuente (Mermaid)/LEEME.md b/Fase 2/Evidencias Proyecto/Evidencias de documentación/Diseño/Diagramas fuente (Mermaid)/LEEME.md
@@ -24,6 +24,7 @@ nombre.
 - `Diagrama de Arquitectura.mmd`: diagrama de arquitectura (flowchart).
   PNG en `Fase 2/Evidencias Proyecto/Evidencias de documentación/Diseño/Diagrama de arquitectura/Diagrama de Arquitectura.png`,
   con el mismo comando y configuración.
+- `Diagrama de Clases.mmd`, `Diagrama de Componentes.mmd` y `Diagrama de Secuencia - Analisis de una foto.mmd`: diagramas UML, copiados también en `Diagramas UML.md`; si cambia uno, actualizar ambos. PNG en `Fase 2/Evidencias Proyecto/Evidencias de documentación/Diseño/`, con el mismo comando y configuración (regenerados el 2026-11-16 con el tema oscuro, por #77 y #80).
 - `Diagrama Entidad-Relacion.mmd`: diagrama entidad-relación (`erDiagram`) de
   las 12 tablas de la base de datos. Está copiado dentro de
   `Fase 2/Evidencias Proyecto/Evidencias de sistema/Base de datos/Modelo Relacional.md`

diff --git a/PRODUCT.md b/PRODUCT.md
@@ -54,8 +54,8 @@ un modelo que el equipo pueda explicar a uno con más rendimiento.
   Completada; la siguiente captura confirma la reposición.
 - Walmart evalúa por IoU contra una anotación a mano y valora el
   criterio de la solución; no exige un resultado perfecto.
-- Se instala con Docker en un servidor de la universidad (CITT), sin
-  saber si tiene GPU.
+- Se instala con Docker Compose en un servidor de la tienda o de Walmart,
+  sin saber si tiene GPU (el servidor del CITT se descartó el 2026-11-15).
 
 ## Capabilities and Constraints
 
